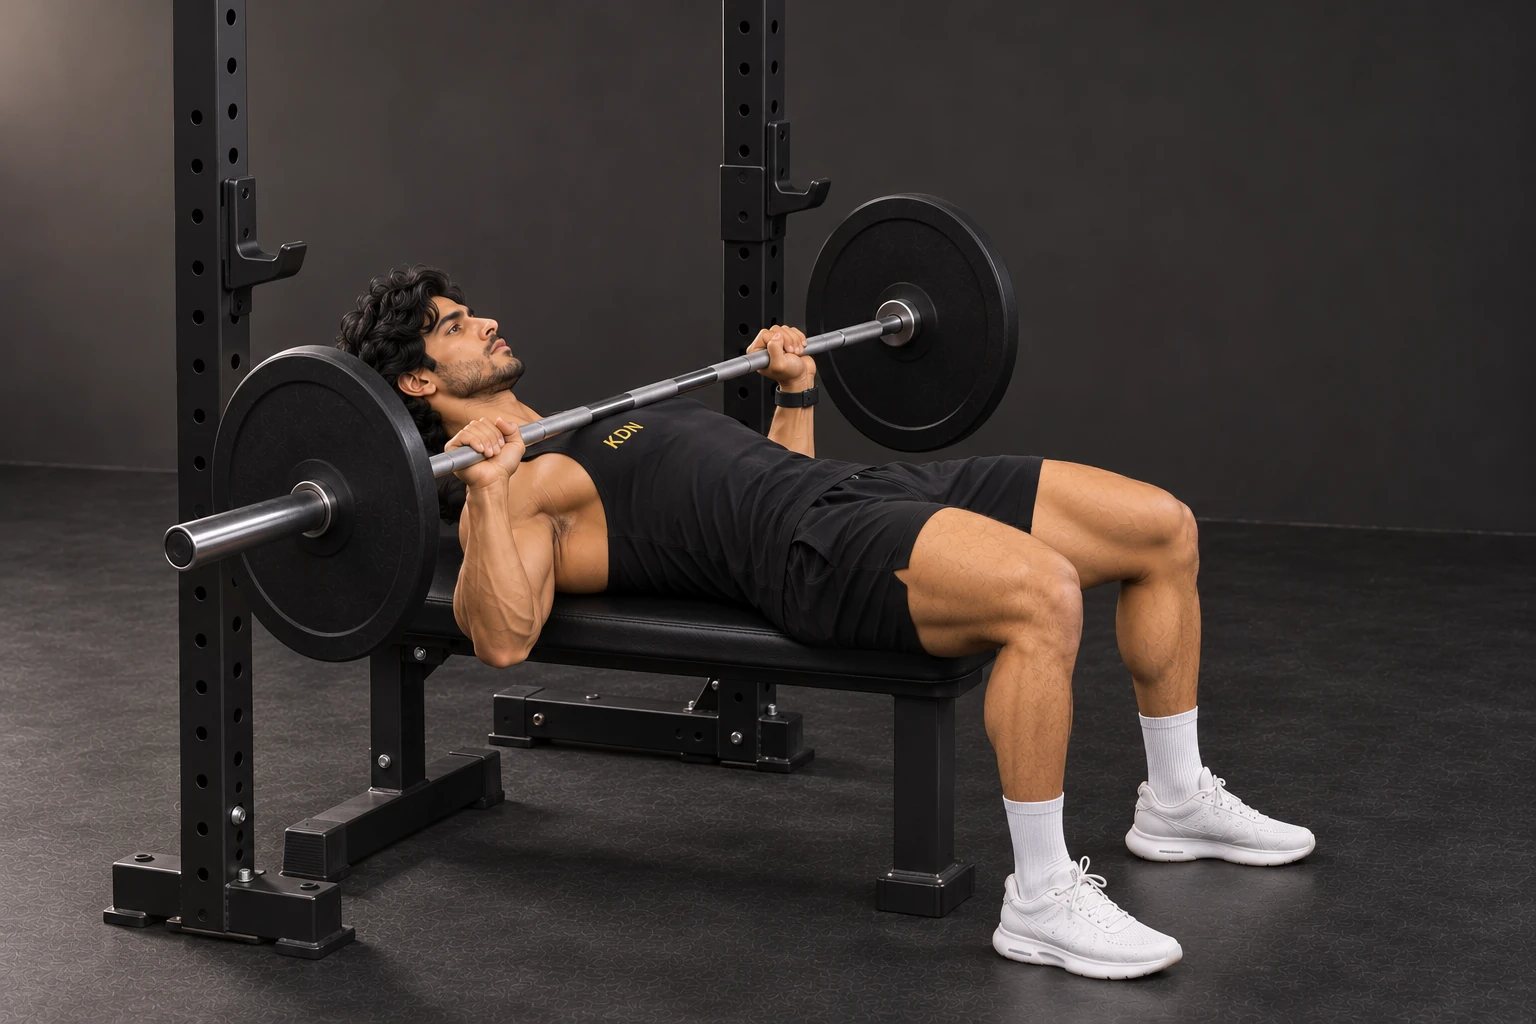
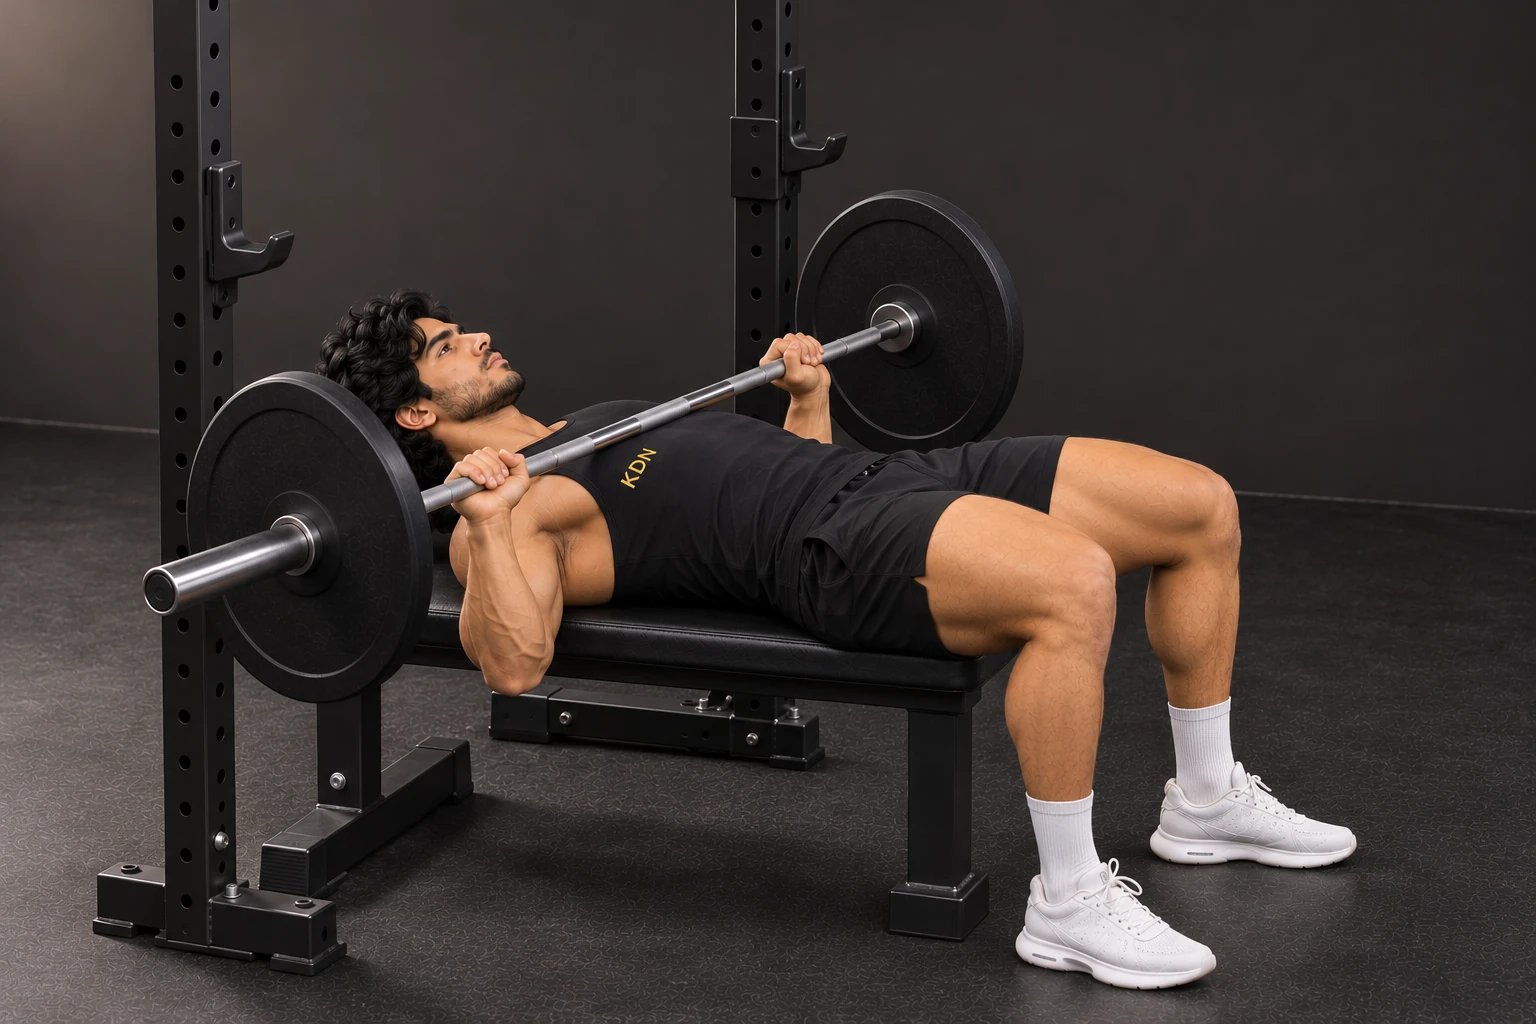
Exercise photos: Bench press (end photo redone, natural neck)
Claude-Session: https://claude.ai/code/session_01PiHZiCNVgyUhmjqo5sSGyX

diff --git a/index.html b/index.html
@@ -5048,7 +5048,7 @@ img.eph,.gw-fig img{cursor:zoom-in}
   function exPics(id){ var P = ephOf(id); return P ? P.map(function(u,i){return '<img class="eph" src="'+u+'" data-hd="'+ephHd(u)+'" alt="'+(i?'End position':'Start position')+'" loading="lazy" decoding="async">'}) : figs(id,fg()); }
 
   /* Made by tools/add-exercise-photos.py: exercise id -> photo version. Do not edit by hand. */
-  var EXPH = {"bench":1,"bridge":1,"climber":1,"curl":1,"dips":1,"legraise":1,"lunge":1,"ohpress":2,"plank":1,"pushup":1,"row":1,"run":1,"squat":1,"walk":1};
+  var EXPH = {"bench":2,"bridge":1,"climber":1,"curl":1,"dips":1,"legraise":1,"lunge":1,"ohpress":2,"plank":1,"pushup":1,"row":1,"run":1,"squat":1,"walk":1};
   /* ---------- Exercise library ---------- */
   // fig = pose key, cap = captions for the frames
   var EXS = {

diff --git a/src/js/03a-ex-photos.js b/src/js/03a-ex-photos.js
@@ -1,2 +1,2 @@
   /* Made by tools/add-exercise-photos.py: exercise id -> photo version. Do not edit by hand. */
-  var EXPH = {"bench":1,"bridge":1,"climber":1,"curl":1,"dips":1,"legraise":1,"lunge":1,"ohpress":2,"plank":1,"pushup":1,"row":1,"run":1,"squat":1,"walk":1};
+  var EXPH = {"bench":2,"bridge":1,"climber":1,"curl":1,"dips":1,"legraise":1,"lunge":1,"ohpress":2,"plank":1,"pushup":1,"row":1,"run":1,"squat":1,"walk":1};
